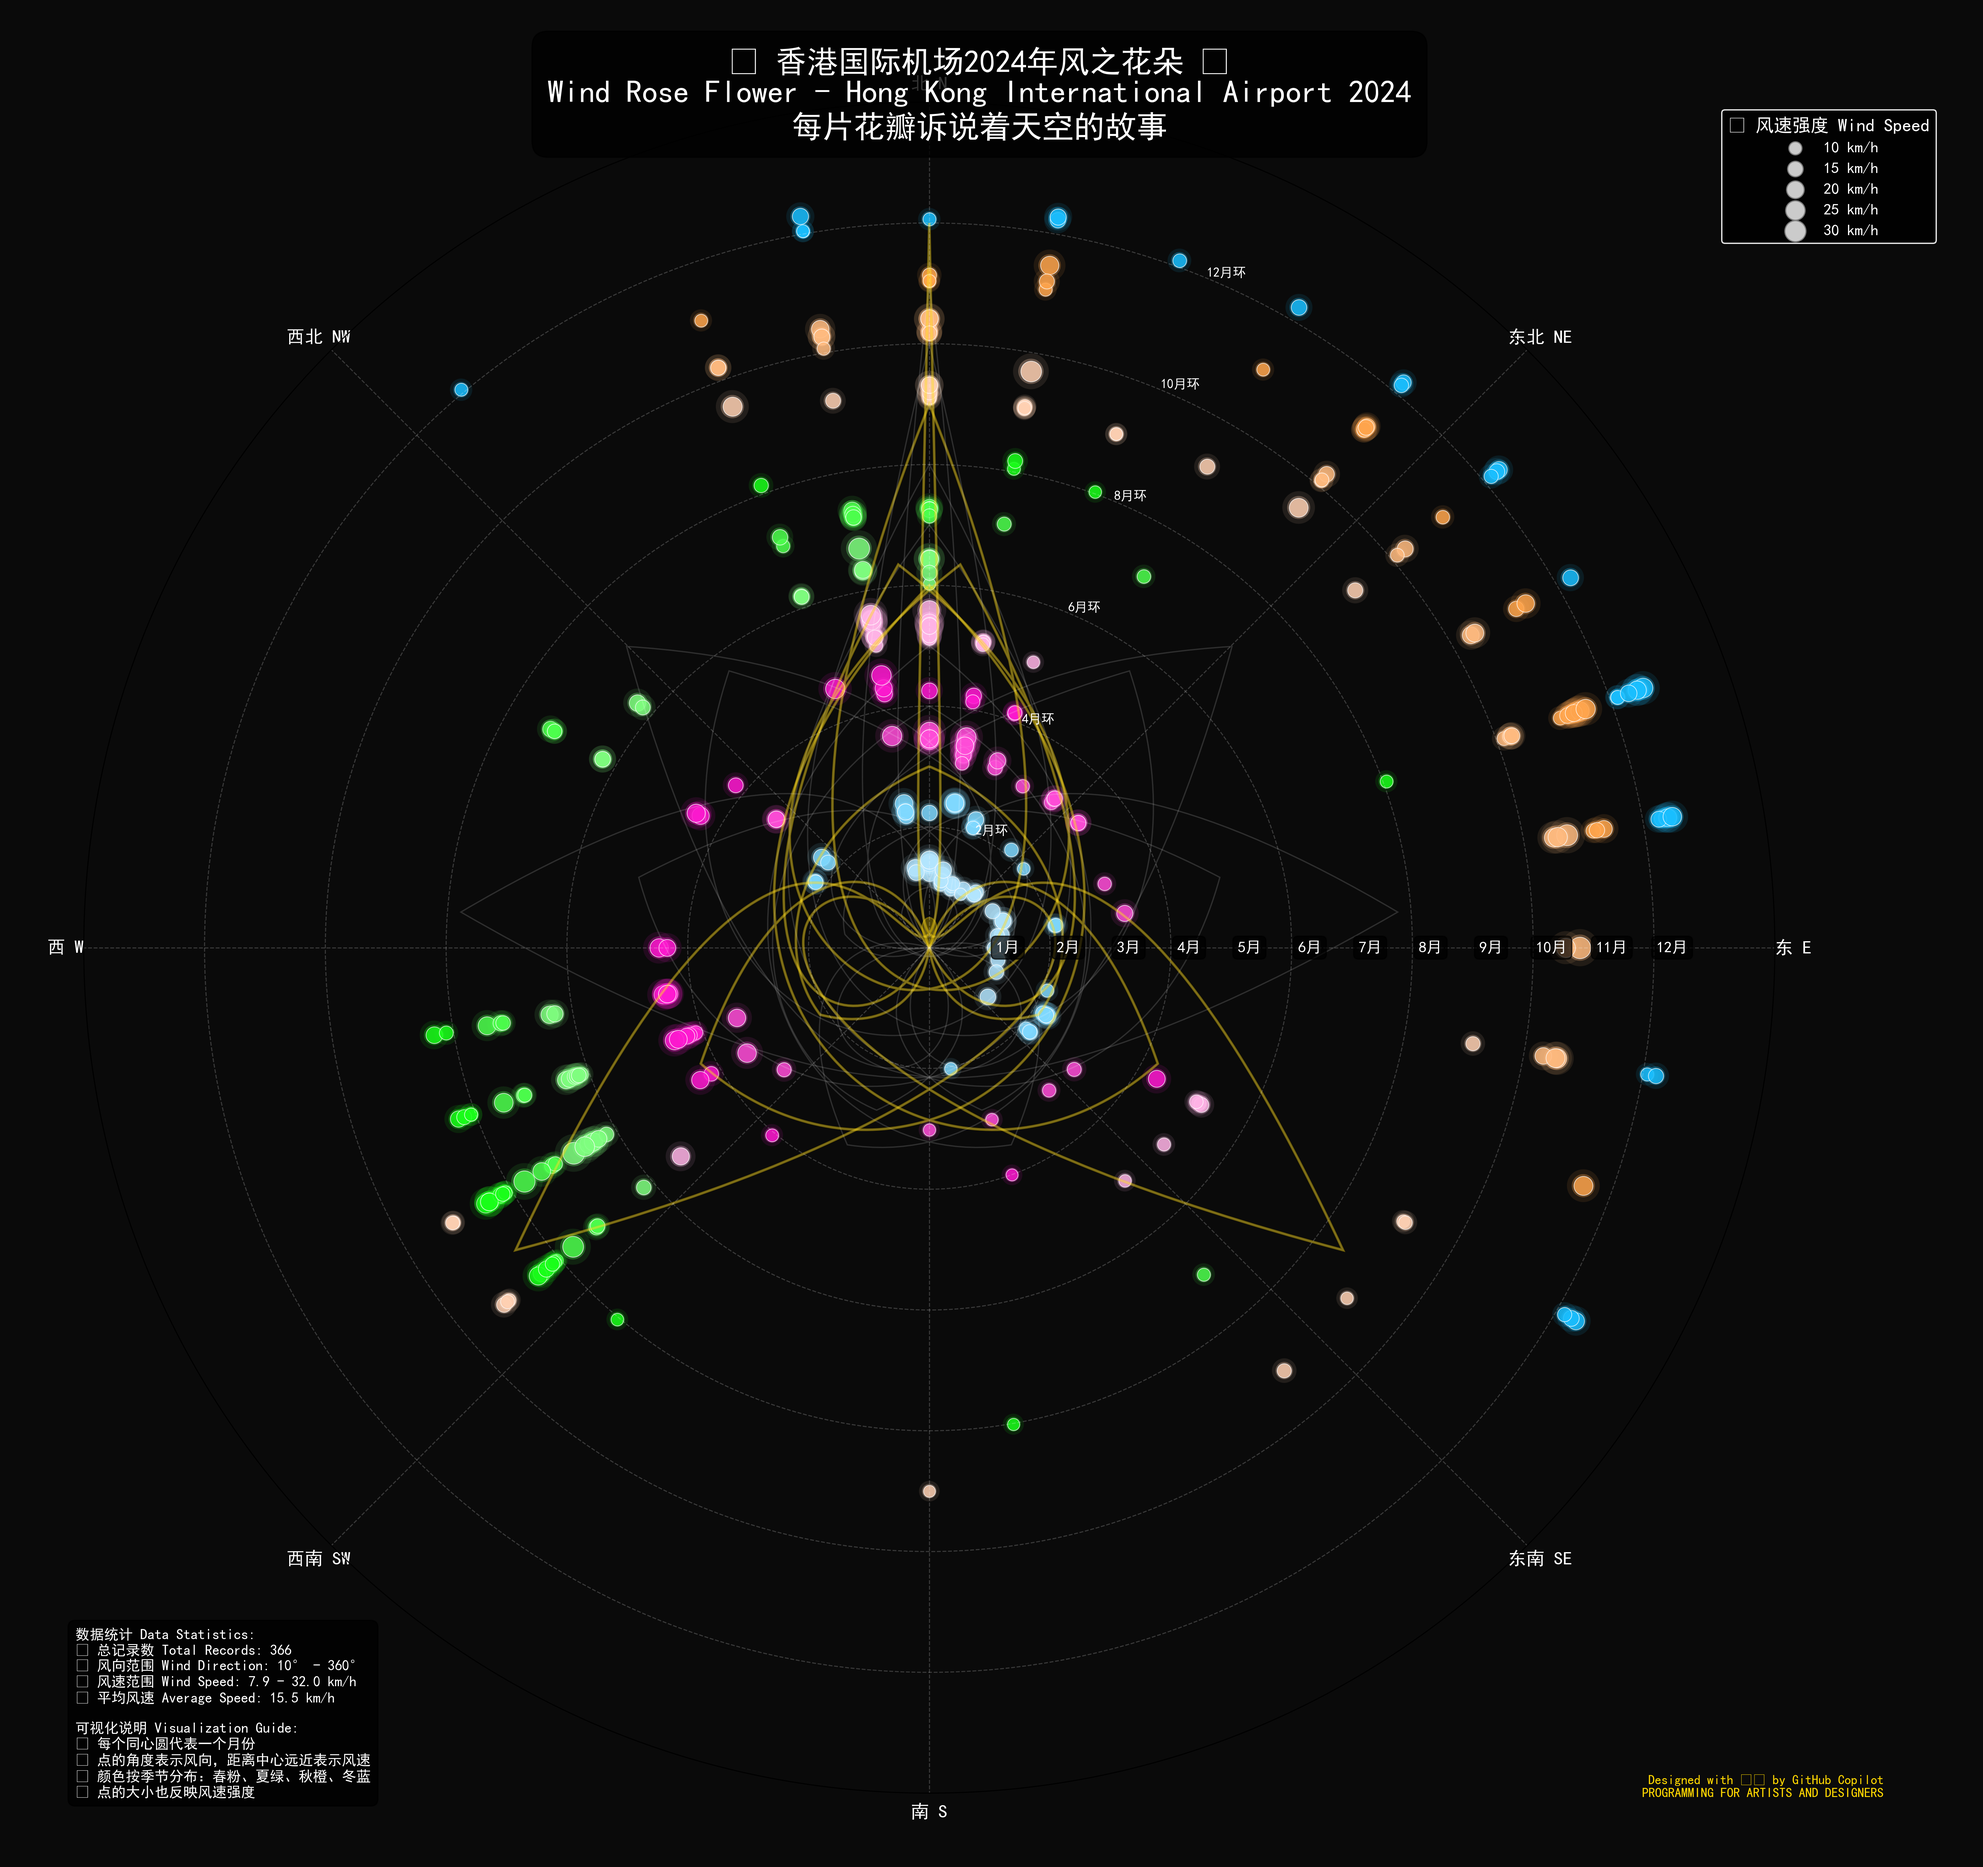
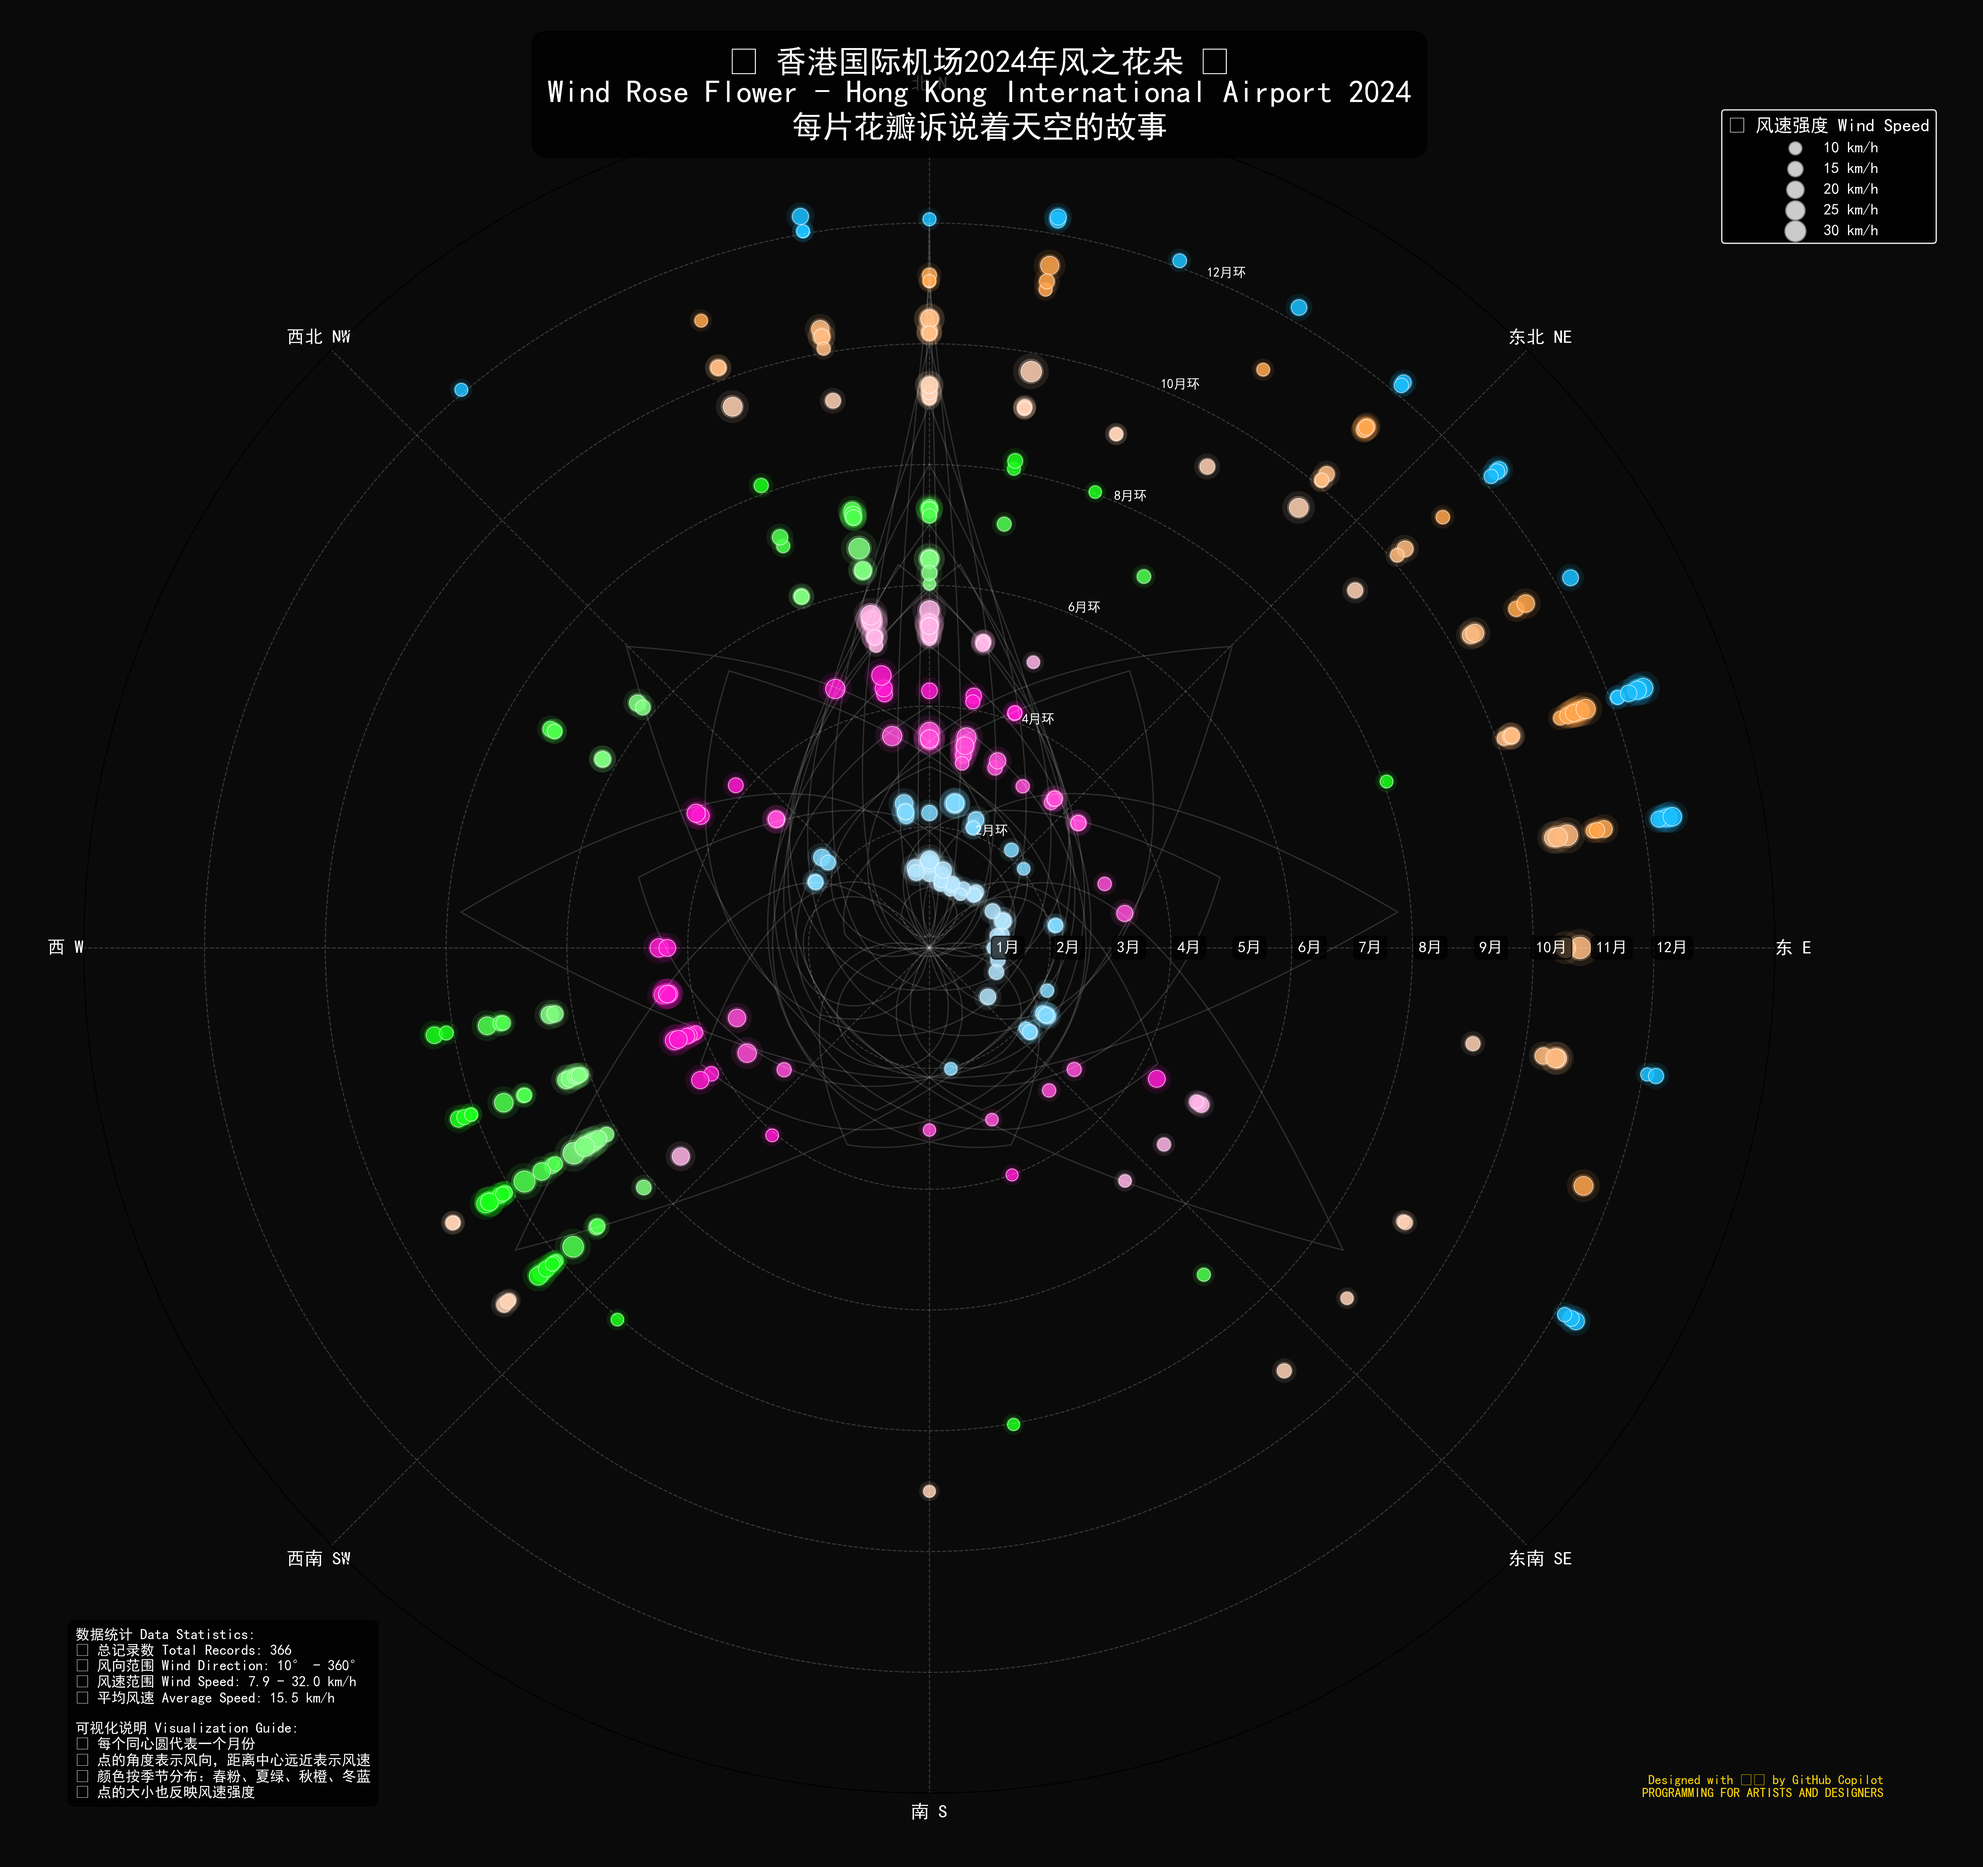
Flower.1

diff --git a/Wind-data-visualization/enhanced_wind_flower.py b/Wind-data-visualization/enhanced_wind_flower.py
@@ -190,16 +190,6 @@ class EnhancedWindFlowerVisualizer:
             circle = Circle((0, 0), month * 1.0, fill=False, 
                           color=circle_color, alpha=circle_alpha, linewidth=1)
             ax.add_patch(circle)
-            
-            # 装饰性内环
-            if month % 3 == 0:  # 季节分界线
-                circle_deco = Circle((0, 0), month * 1.0, fill=False, 
-                              color='#FFD700', alpha=0.4, linewidth=2)
-                ax.add_patch(circle_deco)
-        
-        # 添加中心装饰
-        center_circle = Circle((0, 0), 0.5, fill=True, color='#FFD700', alpha=0.3)
-        ax.add_patch(center_circle)
         
         # 添加月份标签（更加精美）
         month_names = ['1月', '2月', '3月', '4月', '5月', '6月', 
